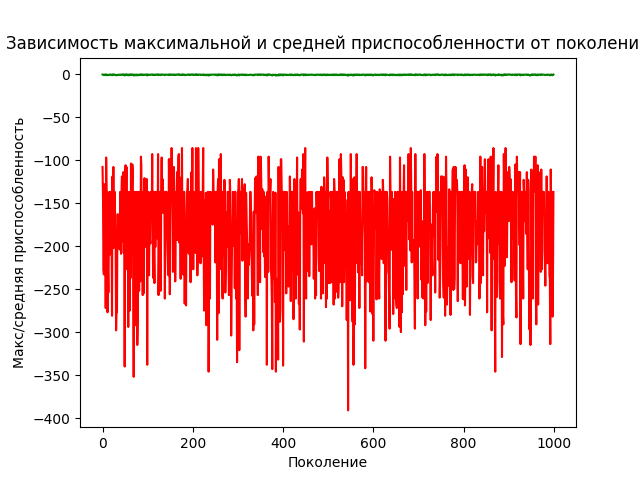
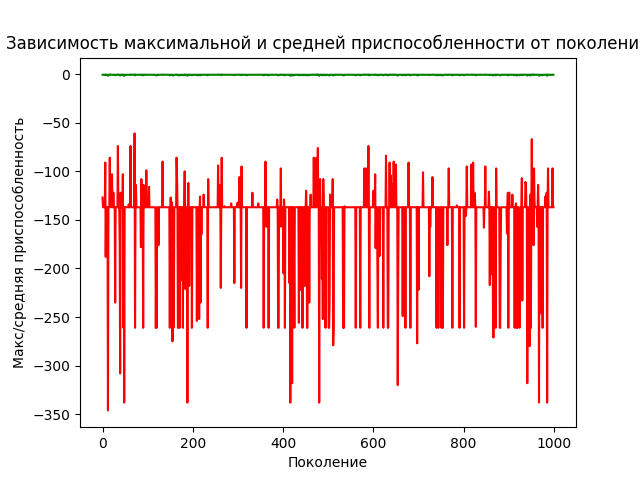
with tests

diff --git a/RocksNums/Rocks.py b/RocksNums/Rocks.py
@@ -18,8 +18,8 @@ MAX_GENERATIONS = 1000  # максимальное количество поко
 IN_DEEP = 5
 IN_WIDTH = 4
 
-RANDOM_SEED = 20
-random.seed(RANDOM_SEED)
+# RANDOM_SEED = 20
+# random.seed(RANDOM_SEED)
 
 
 def first_generation() -> List[list]:
@@ -46,58 +46,64 @@ def setTournament(population: list) -> List[list]:
     for _ in range(p_len):
         ind1 = ind2 = ind3 = 0
         while ind1 == ind2 or ind2 == ind3 or ind3 == ind1:
-            ind1, ind2, ind3 = random.randint(0, p_len - 1), random.randint(0, p_len - 1), random.randint(0, p_len - 1)
+            ind1, ind2, ind3 = random.randint(0, p_len - 1), random.randint(0, p_len - 1), random.randint(0,
+                                                                                                          p_len - 1)
 
         ret.append(deepcopy(max(population[ind1], population[ind2], population[ind3])))
     return ret
 
 
 def exchangeGenes(parent1: list, parent2: list):
-    wrap = random.randint(2, len(parent1) - 1)
-    parent1[:wrap], parent2[:wrap] = parent2[:wrap], parent1[:wrap]
+    for i in range(len(parent1)):
+        if random.random() // (P_MUTATION % 100) == 0:
+            parent2[i], parent1[i] = parent1[i], parent2[i]
 
 
 def mutation(individ, propability):
-    for i in individ:
+    for i in enumerate(individ):
         for j in i:
             if random.random() < propability:
                 j = random.randint(-200, 200)
 
 
-iteration = 0
-max_fittness = -1000
-population = first_generation()
+def main():
+    iteration = 0
+    max_fittness = -1000
+    population = first_generation()
+    #
+    maxFitnessValues = []
+    meanFitnessValues = []
 
-maxFitnessValues = []
-meanFitnessValues = []
+    while iteration < MAX_GENERATIONS and max_fittness < 0:
+        iteration += 1
+        winner_tournament = setTournament(population)
+        for parent1, parent2 in zip(winner_tournament[::2], winner_tournament[1::2]):
+            if random.random() < P_CROSSOVER:
+                exchangeGenes(parent1, parent2)
 
-while iteration < MAX_GENERATIONS and max_fittness < 0:
-    iteration += 1
-    winner_tournament = setTournament(population)
-    for parent1, parent2 in zip(winner_tournament[::2], winner_tournament[1::2]):
-        if random.random() < P_CROSSOVER:
-            exchangeGenes(parent1, parent2)
+        for mutant in winner_tournament:
+            if random.random() < P_MUTATION:
+                mutation(mutant, 1.0 / IN_DEEP * IN_WIDTH)
 
-    for mutant in winner_tournament:
-        if random.random() < P_MUTATION:
-            mutation(mutant, 1.0 / IN_DEEP * IN_WIDTH)
+        tmp_fit = getFitnessPopulation(winner_tournament)
+        max_value, index_max_value = max([(v, i) for i, v in enumerate(tmp_fit)])
 
-    tmp_fit = getFitnessPopulation(winner_tournament)
-    max_value, index_max_value = max([(v, i) for i, v in enumerate(tmp_fit)])
+        mean = max_value / POPULATION_SIZE
+        maxFitnessValues.append(max_value)
+        meanFitnessValues.append(mean)
+        print(f"Поколение {iteration}: Макс приспособ. = {max_value}, Средняя приспособ.= {mean}")
+        print("Лучший индивидуум = ", *population[index_max_value], "\n")
+        print(
+            f"\t\t\t[ {sum(population[index_max_value][0])} ]\t[ {sum(population[index_max_value][1])} ]\t[ {sum(population[index_max_value][2])} ]\t[ {sum(population[index_max_value][3])} ]")
 
-    mean = max_value / POPULATION_SIZE
-    maxFitnessValues.append(max_value)
-    meanFitnessValues.append(mean)
-    print(f"Поколение {iteration}: Макс приспособ. = {max_value}, Средняя приспособ.= {mean}")
-    print("Лучший индивидуум = ", *population[index_max_value], "\n")
-    print(f"\t\t\t[ {sum(population[index_max_value][0])} ]\t[ {sum(population[index_max_value][1])} ]\t[ {sum(population[index_max_value][2])} ]\t[ {sum(population[index_max_value][3])} ]")
-
-plt.plot(maxFitnessValues, color='red')
-plt.plot(meanFitnessValues, color='green')
-plt.xlabel('Поколение')
-plt.ylabel('Макс/средняя приспособленность')
-plt.title('Зависимость максимальной и средней приспособленности от поколения')
-plt.savefig("new")
-plt.show()
+    plt.plot(maxFitnessValues, color='red')
+    plt.plot(meanFitnessValues, color='green')
+    plt.xlabel('Поколение')
+    plt.ylabel('Макс/средняя приспособленность')
+    plt.title('Зависимость максимальной и средней приспособленности от поколения')
+    plt.savefig("new")
+    plt.show()
 
 
+if __name__ == '__main__':
+    main()

diff --git a/RocksNums/tests/test_before_loop.py b/RocksNums/tests/test_before_loop.py
@@ -1,0 +1,26 @@
+import unittest
+
+import numpy as np
+
+from RocksNums.Rocks import first_generation, POPULATION_SIZE, IN_WIDTH, IN_DEEP, exchangeGenes
+
+
+class TestStringMethods(unittest.TestCase):
+    def test_first_generation(self):
+        self.assertEqual(len(first_generation()), POPULATION_SIZE)
+
+    def test_nested_lists(self):
+        # self.assertTrue(np.sum([len(x) == IN_WIDTH for x in first_generation()]) == POPULATION_SIZE)
+        self.assertEqual(np.sum([len(x) == IN_WIDTH and len(y) == IN_DEEP for x in first_generation() for y in x]),
+                         IN_WIDTH * POPULATION_SIZE)
+
+    def test_cxOnePoint(self):
+        parent1 = [[0 for _ in range(IN_DEEP)]for _ in range(IN_WIDTH)]
+        parent2 = [[1 for _ in range(IN_DEEP)]for _ in range(IN_WIDTH)]
+        exchangeGenes(parent1, parent2)
+        print(parent1)
+        print(parent2)
+
+
+if __name__ == '__main__':
+    unittest.main()
